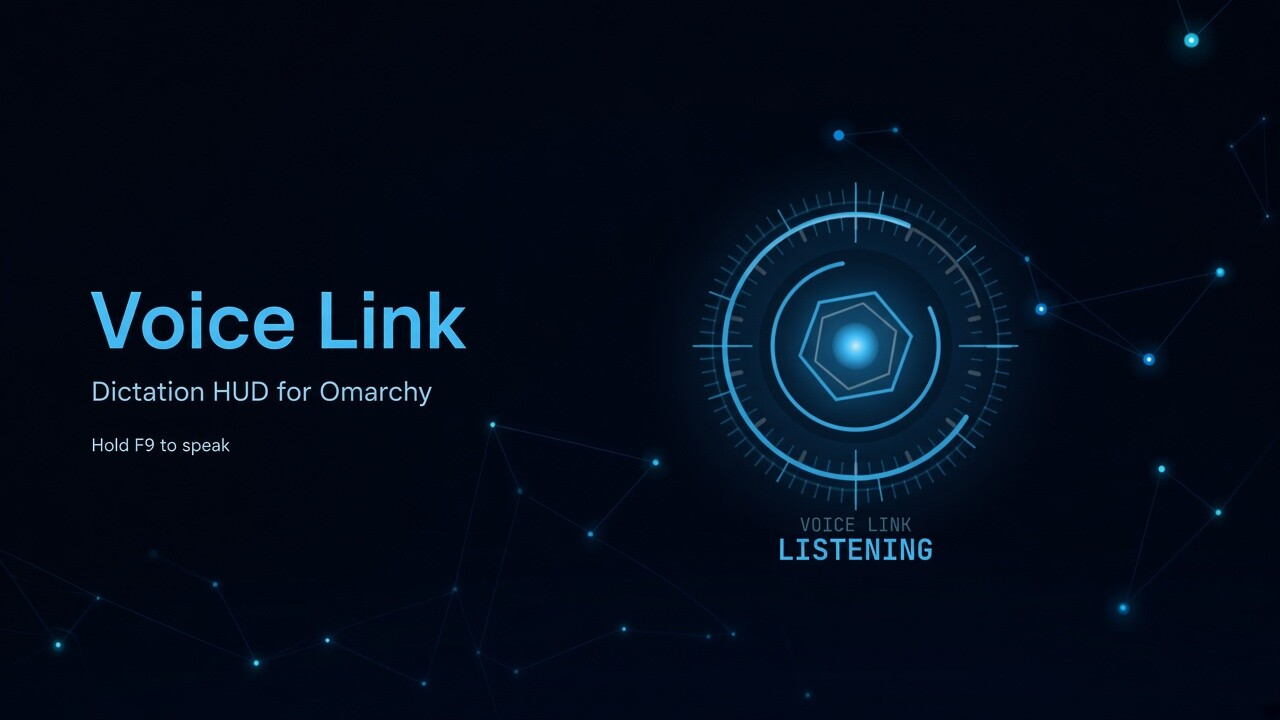
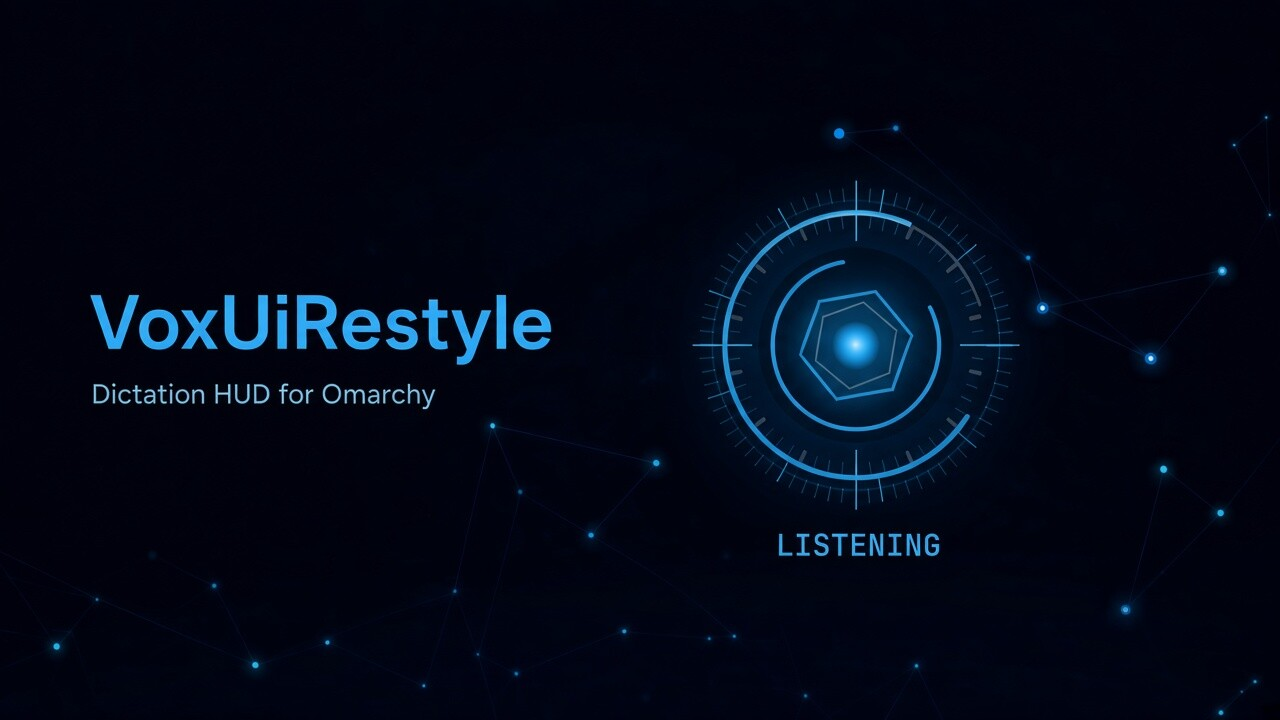
Brand everything as VoxUiRestyle.
Drop the Voice Link product name from the HUD, package metadata, and presentation banner.

diff --git a/osd-package/JarvisHud.qml b/osd-package/JarvisHud.qml
@@ -398,14 +398,10 @@ Item {
             ctx.save();
             ctx.textAlign = "center";
             ctx.textBaseline = "middle";
-            ctx.font = Math.max(8, Math.round(size * 0.055)) + "px JetBrains Mono, monospace";
-            ctx.fillStyle = muted;
-            ctx.globalAlpha = 0.70;
-            ctx.fillText("VOICE LINK", cx, cy + r * 1.08);
             ctx.font = "600 " + Math.max(11, Math.round(size * 0.09)) + "px JetBrains Mono, monospace";
             ctx.fillStyle = state;
             ctx.globalAlpha = 0.96;
-            ctx.fillText(root._stateLabel(), cx, cy + r * 1.24);
+            ctx.fillText(root._stateLabel(), cx, cy + r * 1.12);
             ctx.restore();
             ctx.restore();
         }

diff --git a/README.md b/README.md
@@ -1,5 +1,5 @@
 <p align="center">
-  <img src="docs/banner.jpg" alt="Voice Link, a dictation HUD for Omarchy" width="880">
+  <img src="docs/banner.jpg" alt="VoxUiRestyle dictation HUD for Omarchy" width="880">
 </p>
 
 A compact cyan assistant overlay for [Voxtype](https://voxtype.io/) on Omarchy.
